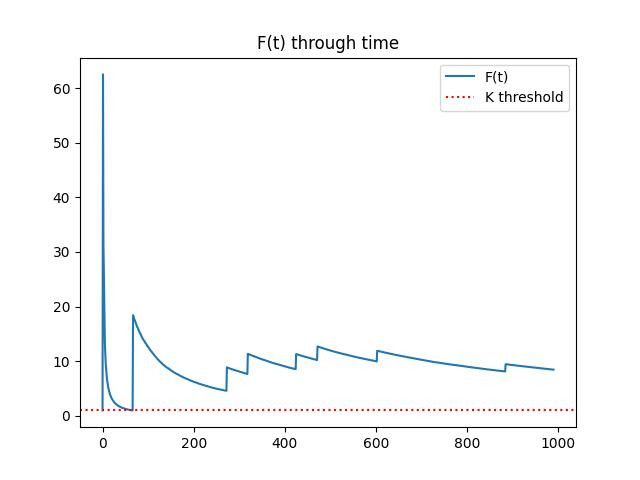
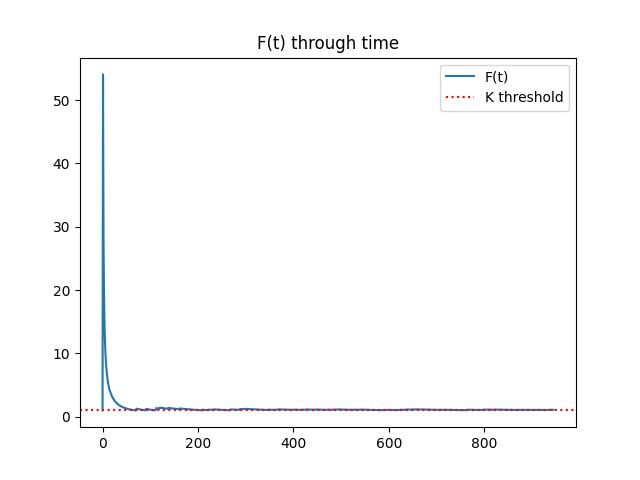
feat(vascular-cambium and fellogen)

diff --git a/ModelBark_v1.0.py b/ModelBark_v1.0.py
@@ -169,8 +169,14 @@ class Plant:
             num_xylem_or_phloem_cells = radius_mod.count(0)
             num_phelloderm_cells = radius_mod.count(2)
             radius_length = len(radius_mod)
-            vascular_suber_cambium_cells = 2
+            vascular_suber_cambium_cells = radius_mod.count(1) + radius_mod.count(3)
             return radius_length - num_xylem_or_phloem_cells - num_phelloderm_cells - vascular_suber_cambium_cells
+    
+    def num_phellogen_cells(self):
+
+        radius_mod = self.radius
+
+        return radius_mod.count(3)
         
         
     def num_phelloderm_cells(self):
@@ -204,9 +210,11 @@ class Plant:
 
         phelloderm = self.num_phelloderm_cells()
 
-        return [xylem, phloem, phellem, inactive_phloem, phelloderm]
+        phellogen = self.num_phellogen_cells()
 
-    def equation(self, a, b, c, d, e):
+        return [xylem, phloem, phellem, inactive_phloem, phelloderm, phellogen]
+
+    def equation(self, a, b, c, d, e, f, g):
 
         radius_parameters = self.parameters()
 
@@ -220,9 +228,13 @@ class Plant:
 
         phelloderm_e = e * radius_parameters[4]
 
-        return (1 + phellem_c + inactive_phloem_d + phelloderm_e) / (xylem_a + phloem_b)
+        phellogen_f = f * radius_parameters[5]
 
-    def graphical_parameters_storage(self, a, b, c, d, e):
+        vascular_cambium_g = g * 1
+
+        return (1 + phellem_c + inactive_phloem_d + phelloderm_e + phellogen_f) / (xylem_a + phloem_b + vascular_cambium_g)
+
+    def graphical_parameters_storage(self, a, b, c, d, e, f, g):
 
         self.xylem_storage.append(self.num_xylem_cells())
 
@@ -234,7 +246,7 @@ class Plant:
 
         self.phelloderm_storage.append(self.num_phelloderm_cells())
 
-        self.equation_storage.append(self.equation(a, b, c, d, e))
+        self.equation_storage.append(self.equation(a, b, c, d, e, f, g))
 
     def result(self):
 
@@ -288,14 +300,27 @@ class Plant:
         plt.close('all')
 
 
-def simulation_generation(vascular_cambium_division_rate: float, phellogen_division_rate: float, phelloderm_division_rate: float ,phellogen_position: float, a: float, b: float, c: float, d: float, e:float, threshold: float, max_length: int):
+def simulation_generation(vascular_cambium_division_rate: float,
+                          phellogen_division_rate: float,
+                          phelloderm_division_rate: float,
+                          phellogen_position: float,
+                          a: float,
+                          b: float,
+                          c: float,
+                          d: float,
+                          e:float,
+                          f:float,
+                          g:float,
+                          threshold: float,
+                          max_length: int):
+    
     simulation = Plant()
     simulation.vascular_cambium_division(vascular_cambium_division_rate)
-    simulation.graphical_parameters_storage(a, b, c, d, e)
+    simulation.graphical_parameters_storage(a, b, c, d, e, f, g)
 
-    while simulation.equation(a, b, c, d, e) >= threshold:
+    while simulation.equation(a, b, c, d, e, f, g) >= threshold:
         simulation.vascular_cambium_division(vascular_cambium_division_rate)
-        simulation.graphical_parameters_storage(a, b, c, d, e)
+        simulation.graphical_parameters_storage(a, b, c, d, e, f, g)
 
         if simulation.radius_length() >= max_length:
             break
@@ -309,12 +334,12 @@ def simulation_generation(vascular_cambium_division_rate: float, phellogen_divis
         simulation.first_phellogen(phellogen_position)
         while simulation.radius_length() <= max_length:
 
-            while simulation.equation(a, b, c, d, e) >= threshold and simulation.radius_length() <= max_length:
+            while simulation.equation(a, b, c, d, e, f, g) >= threshold and simulation.radius_length() <= max_length:
                 simulation.vascular_cambium_division(
                     vascular_cambium_division_rate)
                 simulation.phellem_production(phellogen_division_rate)
                 simulation.phelloderm_production(phelloderm_division_rate)
-                simulation.graphical_parameters_storage(a, b, c, d, e)
+                simulation.graphical_parameters_storage(a, b, c, d, e, f, g)
 
             if simulation.radius_length() <= max_length:
                 simulation.new_phellogen(phellogen_position)
@@ -344,9 +369,11 @@ def multiple_simulation(iterations, input_file, output_file_name):
                                                                 input_file.iloc[combination, 7],
                                                                 input_file.iloc[combination, 8],
                                                                 input_file.iloc[combination, 9],
-                                                                input_file.iloc[combination, 10],)[7])
+                                                                input_file.iloc[combination, 10],
+                                                                input_file.iloc[combination, 11],
+                                                                input_file.iloc[combination, 12],)[8])
             export_df = pd.DataFrame(output_dataset)
-            export_df.iloc[:,0:input_file.iloc[0, 10]].to_csv(output_file_name, index=False, header= False)
+            export_df.iloc[:,0:input_file.iloc[0, 12]].to_csv(output_file_name, index=False, header= False)
             print('Multiple Simulation Completed')
 
 main_menu = tk.Tk()
@@ -383,32 +410,36 @@ tk.Label(input_frame, text='p',
 tk.Label(input_frame, text='a', bg='white').grid(row=0, column=4)
 tk.Label(input_frame, text='b', bg='white').grid(row=0, column=5)
 tk.Label(input_frame, text='c', bg='white').grid(row=0, column=6)
-tk.Label(input_frame, text='d', bg='white').grid(row=0, column=7)
-tk.Label(input_frame, text='e', bg='white').grid(row=0, column=8)
-tk.Label(input_frame, text='K', bg='white').grid(row=0, column=9)
+tk.Label(input_frame, text='d', bg='white').grid(row=2, column=0)
+tk.Label(input_frame, text='e', bg='white').grid(row=2, column=1)
+tk.Label(input_frame, text='f', bg='white').grid(row=2, column=2)
+tk.Label(input_frame, text='g', bg='white').grid(row=2, column=3)
+tk.Label(input_frame, text='K', bg='white').grid(row=2, column=4)
 tk.Label(input_frame, text='ML',
-         bg='white').grid(row=0, column=10, pady=5)
+         bg='white').grid(row=2, column=5, pady=5)
 tk.Label(input_frame, text="Input File Name",
-         bg="white").grid(row=2, column=8, pady=5)
+         bg="white").grid(row=0, column=8, pady=5, padx=(60,20))
 tk.Label(input_frame, text="Output File Name",
-         bg="white").grid(row=2, column=9, pady=5)
+         bg="white").grid(row=0, column=9, pady=5)
 tk.Label(input_frame, text="Iterations",
-         bg="white").grid(row=2, column=10, pady=5)
+         bg="white").grid(row=0, column=10, pady=5)
 
-vcdr_input = tk.Entry(input_frame, bg='pale green', width=12)
-pdr_input = tk.Entry(input_frame, bg='pale green', width=12)
-phdr_input = tk.Entry(input_frame, bg='pale green', width=12)
-ppos_input = tk.Entry(input_frame, bg='pale green', width=12)
-a_input = tk.Entry(input_frame, bg='pale green', width=12)
-b_input = tk.Entry(input_frame, bg='pale green', width=12)
-c_input = tk.Entry(input_frame, bg='pale green', width=12)
-d_input = tk.Entry(input_frame, bg='pale green', width=12)
-e_input = tk.Entry(input_frame, bg='pale green', width=12)
-threshold_input = tk.Entry(input_frame, bg='pale green', width=12)
-max_length_input = tk.Entry(input_frame, bg='pale green', width=12)
-file_name_input = tk.Entry(input_frame, bg="pale green", width=12)
-output_name_input = tk.Entry(input_frame, bg="pale green", width=12)
-iterations_input = tk.Entry(input_frame, bg="pale green", width=12)
+vcdr_input = tk.Entry(input_frame, bg='pale green', width=7)
+pdr_input = tk.Entry(input_frame, bg='pale green', width=7)
+phdr_input = tk.Entry(input_frame, bg='pale green', width=7)
+ppos_input = tk.Entry(input_frame, bg='pale green', width=7)
+a_input = tk.Entry(input_frame, bg='pale green', width=7)
+b_input = tk.Entry(input_frame, bg='pale green', width=7)
+c_input = tk.Entry(input_frame, bg='pale green', width=7)
+d_input = tk.Entry(input_frame, bg='pale green', width=7)
+e_input = tk.Entry(input_frame, bg='pale green', width=7)
+f_input = tk.Entry(input_frame, bg='pale green', width=7)
+g_input = tk.Entry(input_frame, bg='pale green', width=7)
+threshold_input = tk.Entry(input_frame, bg='pale green', width=7)
+max_length_input = tk.Entry(input_frame, bg='pale green', width=7)
+file_name_input = tk.Entry(input_frame, bg="pale green", width=13)
+output_name_input = tk.Entry(input_frame, bg="pale green", width=13)
+iterations_input = tk.Entry(input_frame, bg="pale green", width=13)
 
 vcdr_input.grid(row=1, column=0, padx=(30, 0), pady=10)
 pdr_input.grid(row=1, column=1, padx=20, pady=10)
@@ -417,23 +448,28 @@ ppos_input.grid(row=1, column=3, padx=20, pady=10)
 a_input.grid(row=1, column=4, padx=20, pady=10)
 b_input.grid(row=1, column=5, padx=20, pady=10)
 c_input.grid(row=1, column=6, padx=20, pady=10)
-d_input.grid(row=1, column=7, padx=20, pady=10)
-e_input.grid(row=1, column=8, padx=20, pady=10)
-threshold_input.grid(row=1, column=9, padx=20, pady=10)
-max_length_input.grid(row=1, column=10, padx=20, pady=10)
-file_name_input.grid(row=3, column=8, padx=20, pady=(0, 30))
-output_name_input.grid(row=3, column=9, padx=20, pady=(0, 30))
-iterations_input.grid(row=3, column=10, padx=20, pady=(0, 30))
+d_input.grid(row=3, column=0, padx=(30, 0), pady=(0, 30))
+e_input.grid(row=3, column=1, padx=20, pady=(0, 30))
+f_input.grid(row=3, column=2, padx=20, pady=(0, 30))
+g_input.grid(row=3, column=3, padx=20, pady=(0, 30))
+threshold_input.grid(row=3, column=4, padx=20, pady=(0, 30))
+max_length_input.grid(row=3, column=5, padx=20, pady=(0, 30))
+file_name_input.grid(row=1, column=8, padx=(60,20), pady=10)
+output_name_input.grid(row=1, column=9, padx=20, pady=10)
+iterations_input.grid(row=1, column=10, padx=20, pady=10)
+
 
 vcdr_input.insert(0, 0.9)
 pdr_input.insert(0, 0.054)
 ppos_input.insert(0,0.3)
-phdr_input.insert(0,0.05)
+phdr_input.insert(0,0.0025)
 a_input.insert(0, 0.016)
 b_input.insert(0, 0.008)
 c_input.insert(0, 0.3)
 d_input.insert(0, 0.002)
 e_input.insert(0,0.001)
+f_input.insert(0,0.0025)
+g_input.insert(0,0.0025)
 threshold_input.insert(0, 1)
 max_length_input.insert(0, 1000)
 
@@ -449,6 +485,8 @@ def single_run():
     c_get = c_input.get()
     d_get = d_input.get()
     e_get = e_input.get()
+    f_get = f_input.get()
+    g_get = g_input.get()
     threshold_get = threshold_input.get()
     max_length_get = max_length_input.get()
     tester = bool()
@@ -463,6 +501,8 @@ def single_run():
         c_get = float(c_get)
         d_get = float(d_get)
         e_get = float(e_get)
+        f_get = float(f_get)
+        g_get = float(g_get)
         threshold_get = float(threshold_get)
         max_length_get = int(max_length_get)
         tester = True
@@ -478,7 +518,7 @@ def single_run():
 
     if tester:
         input_data = [vcdr_get, pdr_get, phdr_get, ppos_get, a_get, b_get,
-                      c_get, d_get, e_get, threshold_get, max_length_get]
+                      c_get, d_get, e_get, f_get, g_get, threshold_get, max_length_get]
         run = simulation_generation(input_data[0],
                                     input_data[1],
                                     input_data[2],
@@ -489,10 +529,14 @@ def single_run():
                                     input_data[7],
                                     input_data[8],
                                     input_data[9],
-                                    input_data[10])
+                                    input_data[10],
+                                    input_data[11],
+                                    input_data[12],)
+        
+        print(run)
 
-        radius_list = run[7]
-        res = [(max(run[7]) + 1) if item ==
+        radius_list = run[8]
+        res = [(max(run[8]) + 1) if item ==
                1 else item for item in radius_list]
         heatmap = np.array(res)
         heatmap = np.expand_dims(heatmap, axis=0)
@@ -561,36 +605,42 @@ def single_run():
                  text=f'e: {input_data[8]}',
                  bg='white').grid(row=10, sticky="W")
         tk.Label(statistics_frame,
-                 text=f'K: {input_data[9]}',
+                 text=f'f: {input_data[9]}',
                  bg='white').grid(row=11, sticky="W")
         tk.Label(statistics_frame,
-                 text=f'Length of the radius: {input_data[10]}',
+                 text=f'g: {input_data[10]}',
                  bg='white').grid(row=12, sticky="W")
+        tk.Label(statistics_frame,
+                 text=f'K: {input_data[11]}',
+                 bg='white').grid(row=13, sticky="W")
+        tk.Label(statistics_frame,
+                 text=f'Length of the radius: {input_data[12]}',
+                 bg='white').grid(row=14, sticky="W")
         tk.Label(statistics_frame,
                  text='Output Statistics:',
                  bg='white',
-                 font=('*font', 10, 'bold')).grid(row=13, sticky="W")
+                 font=('*font', 10, 'bold')).grid(row=15, sticky="W")
         tk.Label(statistics_frame,
                  text=f'Xylem cells number: {run[0]}',
-                 bg='white').grid(row=14, sticky="W")
-        tk.Label(statistics_frame,
-                 text=f'Phloem cells number: {run[1]}',
-                 bg='white').grid(row=15, sticky="W")
-        tk.Label(statistics_frame,
-                 text=f'Phellem cells number: {run[2]}',
                  bg='white').grid(row=16, sticky="W")
         tk.Label(statistics_frame,
-                 text=f'Inactive phloem cells number: {run[3]}',
+                 text=f'Phloem cells number: {run[1]}',
                  bg='white').grid(row=17, sticky="W")
         tk.Label(statistics_frame,
-                 text=f'Phelloderm cells number: {run[4]}',
+                 text=f'Phellem cells number: {run[2]}',
                  bg='white').grid(row=18, sticky="W")
         tk.Label(statistics_frame,
-                 text=f'Phellogens created: {run[5]}',
+                 text=f'Inactive phloem cells number: {run[3]}',
                  bg='white').grid(row=19, sticky="W")
         tk.Label(statistics_frame,
-                 text=f'Moment when the first phellogen was created: {run[6]}',
+                 text=f'Phelloderm cells number: {run[4]}',
                  bg='white').grid(row=20, sticky="W")
+        tk.Label(statistics_frame,
+                 text=f'Phellogens created: {run[6]}',
+                 bg='white').grid(row=21, sticky="W")
+        tk.Label(statistics_frame,
+                 text=f'Moment when the first phellogen was created: {run[7]}',
+                 bg='white').grid(row=22, sticky="W")
 
         img_frame = tk.Frame(main_frame, bg='white')
         img_frame.grid(row=0, column=1)
@@ -632,7 +682,7 @@ def single_run():
         tk.Label(footer_frame, text="Radius", bg="white",
                  font=('*font', 10, 'bold')).grid(row=0, column=0)
         radius_text = tk.Text(footer_frame, height=5, width=120, wrap="word")
-        radius_text.insert('end', run[7])
+        radius_text.insert('end', run[8])
         radius_text.grid(row=1, column=0, padx=10, pady=10)
 
         results_menu.mainloop()
@@ -667,11 +717,11 @@ def multiple_run():
         multiple_simulation( iterations_get, input_file_csv,output_name)
 
 
-run_b = tk.Button(input_frame, text='Run', width=13, command=single_run)
-run_b.grid(row=1, column=11, padx=20)
+run_b = tk.Button(input_frame, text='Run', width=7, command=single_run)
+run_b.grid(row=3, column=6,pady=(0, 30))
 
 multiple_run_b = tk.Button(
     input_frame, text='Multiple Run', width=13, command=multiple_run)
-multiple_run_b.grid(row=3, column=11, pady=(0, 30))
+multiple_run_b.grid(row=3, column=10, pady=(0, 30),padx=20)
 
 main_menu.mainloop()
